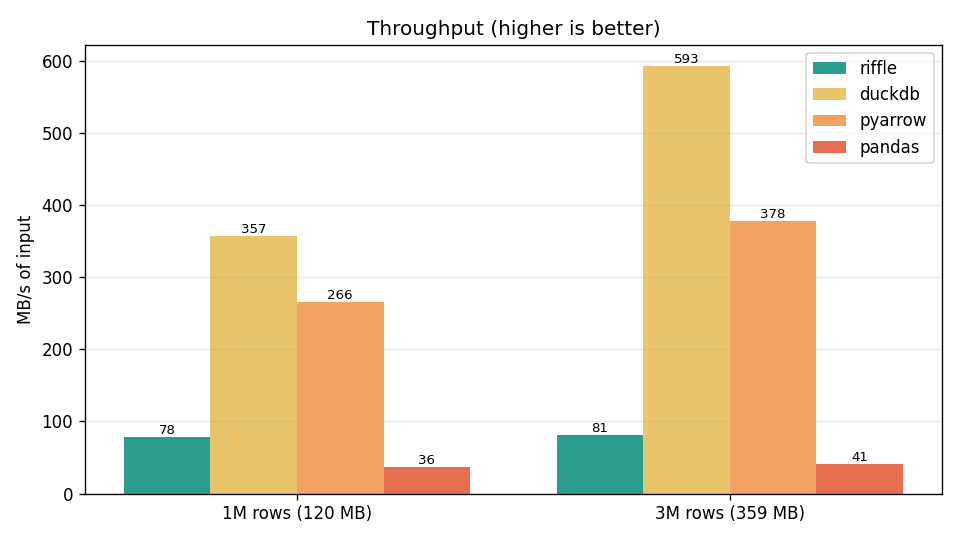
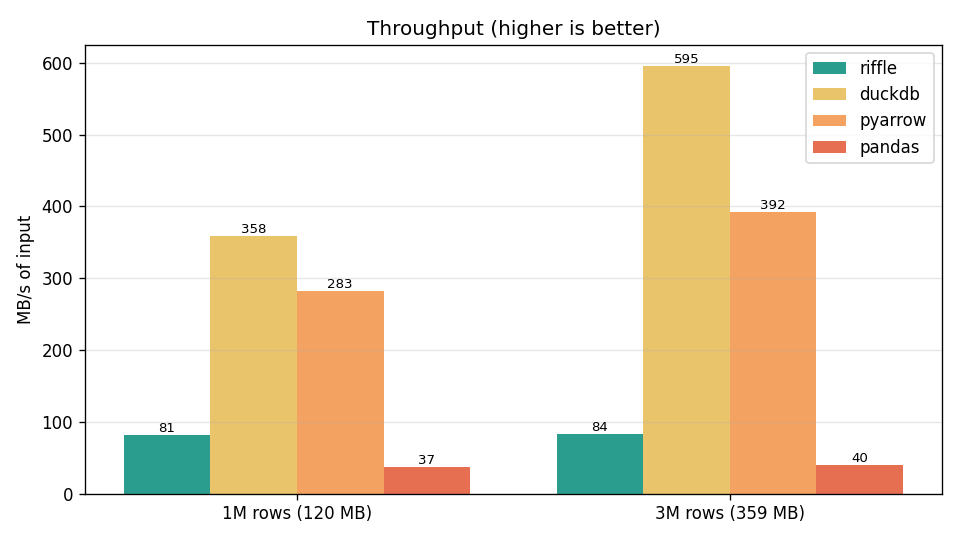
Refresh benchmarks and README after parser/append rework
Re-ran the benchmark on the on-demand + batched-append build and regenerated
the charts. Updated the README throughput note: parsing now uses simdjson
on-demand and Arrow appends are batched; the remaining bottleneck is per-row
string materialization, not parsing or Arrow append. Peak memory ~80 MB, flat.

diff --git a/README.md b/README.md
@@ -36,7 +36,7 @@ Converting the same JSON-lines dataset to Parquet, Riffle vs. the common Python 
 
 ![Peak memory comparison](docs/img/bench_memory.png)
 
-Riffle streams in **constant memory**: its peak stays at **~75 MB whether the input is 120 MB
+Riffle streams in **constant memory**: its peak stays at **~80 MB whether the input is 120 MB
 or 359 MB**. The others load the whole file (or large intermediates): pandas peaks at **4.2 GB
 on a 359 MB input (~12×)**, pyarrow at ~810 MB, duckdb at ~490 MB and growing with input size.
 That flat line is why Riffle converts files **larger than RAM** on a laptop where the others OOM.
@@ -45,16 +45,17 @@ That flat line is why Riffle converts files **larger than RAM** on a laptop wher
 
 ![Throughput comparison](docs/img/bench_throughput.png)
 
-Riffle is **not** the throughput leader. DuckDB (~360–590 MB/s) and PyArrow (~270–380 MB/s) are
-faster; Riffle sustains **~80 MB/s**, ahead of pandas (~40 MB/s). Riffle's throughput is
-parse/build-bound today (simdjson DOM API + per-cell Arrow appends) and has clear headroom;
-compression codec barely moves it.
+Riffle is **not** the throughput leader. DuckDB (~360–595 MB/s) and PyArrow (~280–390 MB/s) are
+faster; Riffle sustains **~80 MB/s**, ahead of pandas (~40 MB/s). Parsing already uses the
+simdjson **on-demand** API and Arrow appends are **batched** per column; the remaining cost is
+per-row materialization (string allocations for flattened paths/values and per-line buffer
+copies), not JSON parsing or Arrow append. Compression codec barely moves it.
 
 ### Where Riffle wins / where it doesn't
 
 | Criterion                          | Riffle                | duckdb | pyarrow | pandas |
 | ---------------------------------- | --------------------- | ------ | ------- | ------ |
-| Peak memory, flat with input size  | ✅ ~75 MB, constant    | ⚠️ grows | ❌ grows | ❌ huge |
+| Peak memory, flat with input size  | ✅ ~80 MB, constant    | ⚠️ grows | ❌ grows | ❌ huge |
 | Converts files larger than RAM     | ✅                     | ⚠️      | ❌       | ❌      |
 | Raw throughput                     | ⚠️ ~80 MB/s            | ✅      | ✅       | ❌      |
 | Single static binary, no runtime   | ✅                     | ❌ (lib) | ❌ (lib) | ❌ (lib) |